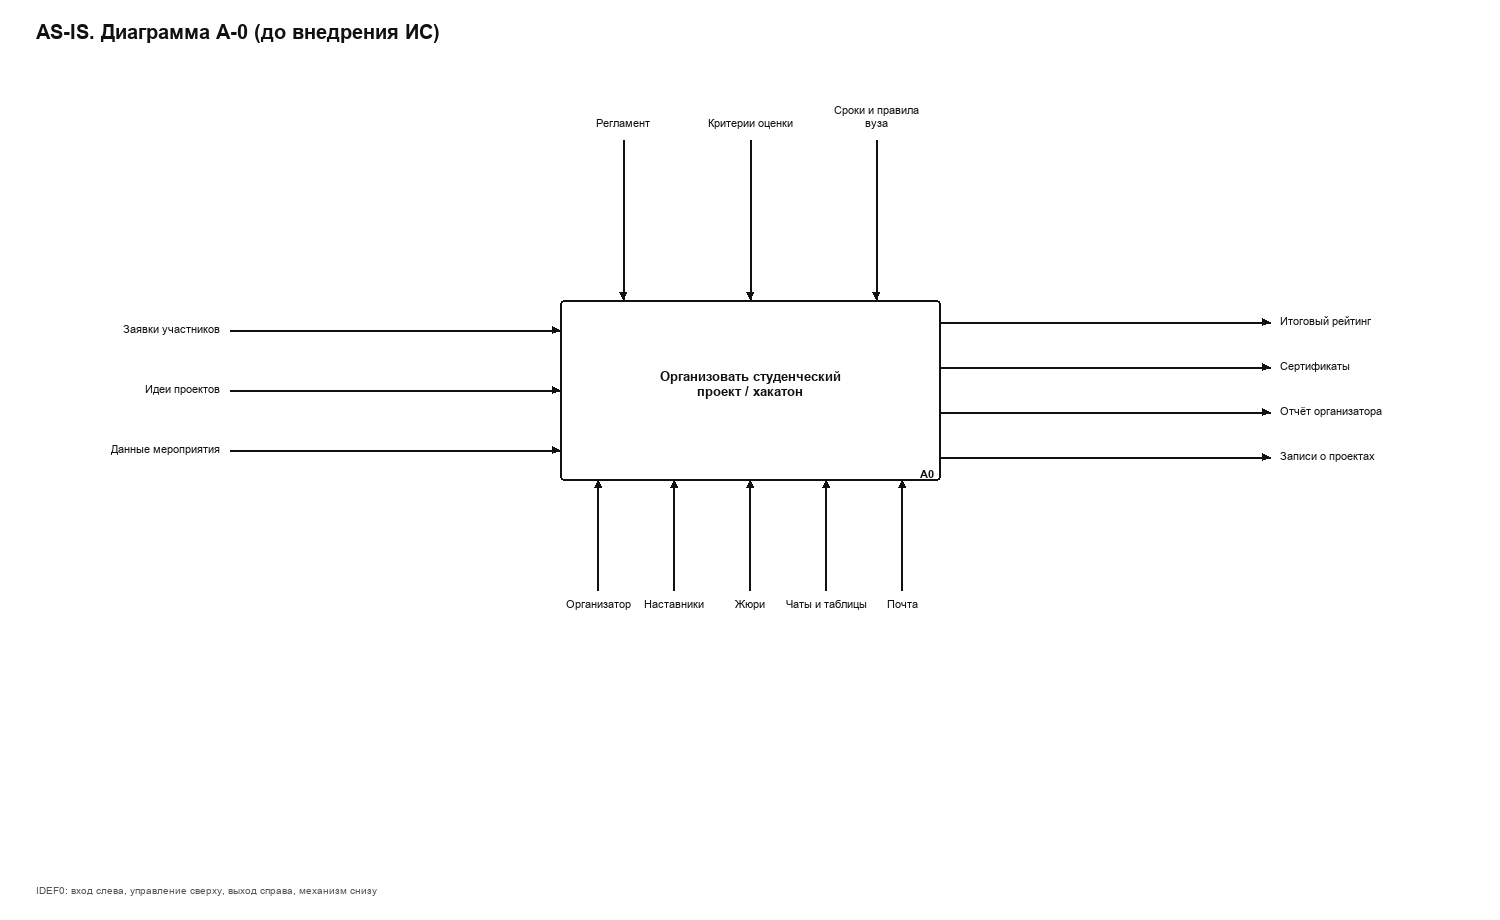
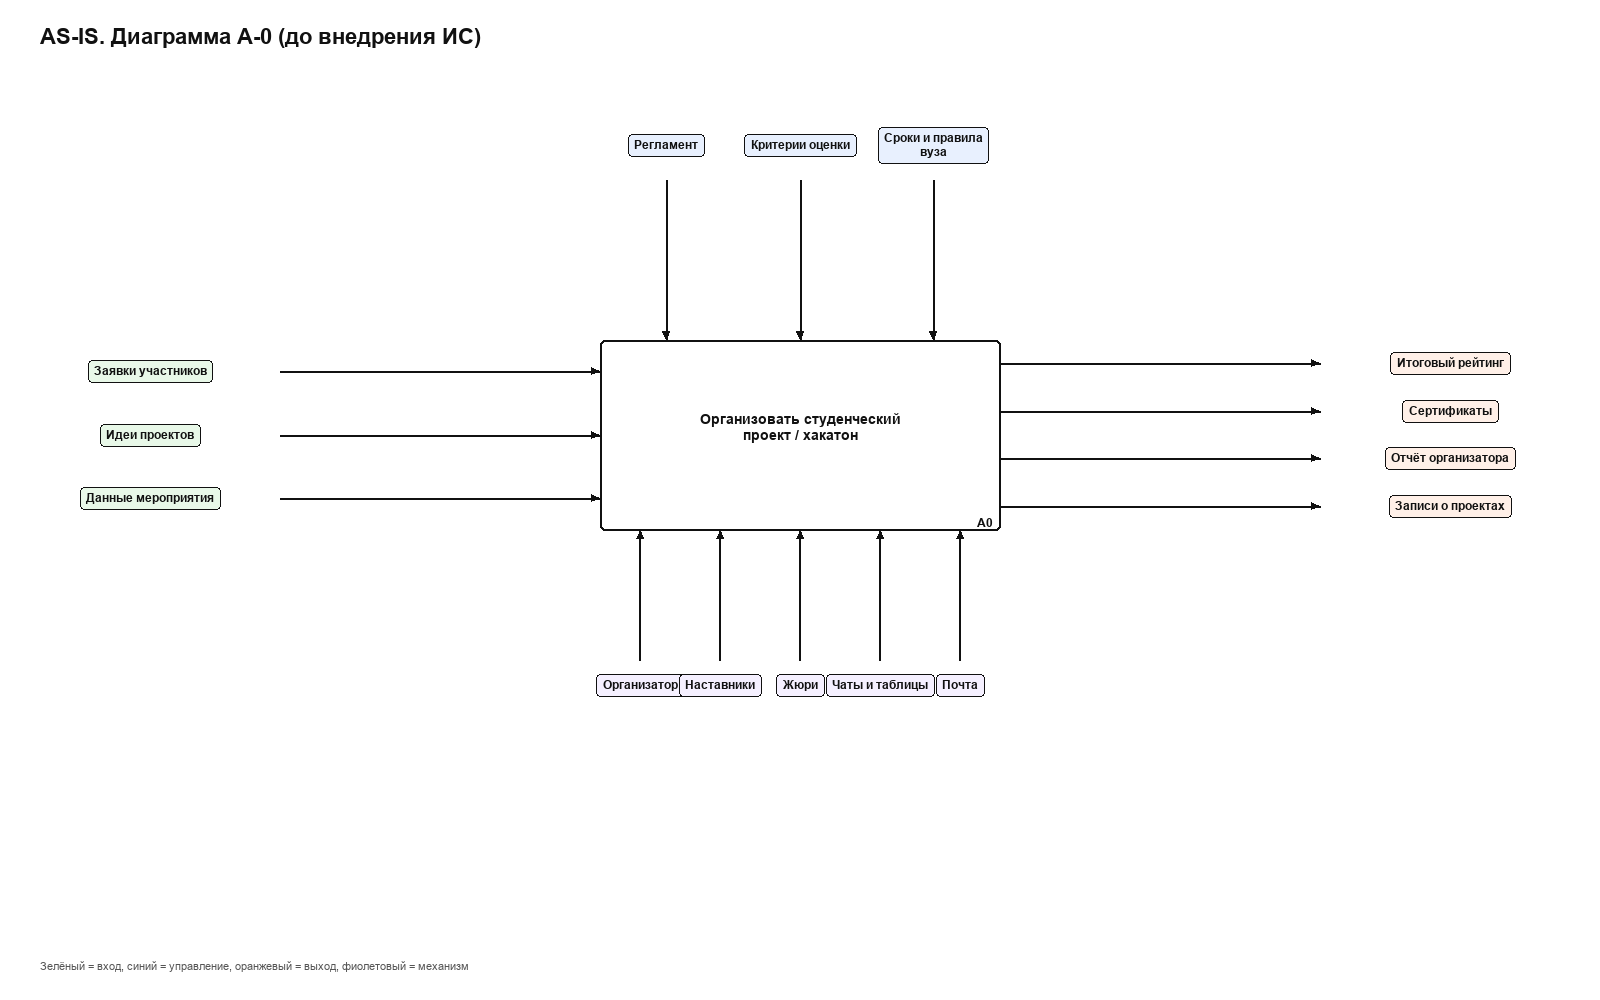
Clarify all IDEF0 arrow labels for inputs outputs and flows

diff --git a/02_idef0_biznes_processy/README.md b/02_idef0_biznes_processy/README.md
@@ -24,12 +24,12 @@
 Ниже построены модели IDEF0 до и после внедрения этой ИС.
 
 Обозначения IDEF0:
-- слева вход;
-- сверху управление;
-- справа выход;
-- снизу механизм.
+- слева вход (зелёные подписи);
+- сверху управление (синие подписи);
+- справа выход (оранжевые подписи);
+- снизу механизм (фиолетовые подписи).
 
-На диаграммах ниже A-0 красным подписаны стрелки между блоками: выход предыдущего шага преобразуется во вход следующего.
+На всех диаграммах подписана каждая стрелка. Розовые подписи между блоками показывают, какая информация выходит из предыдущего шага и входит в следующий.
 
 ---
 
